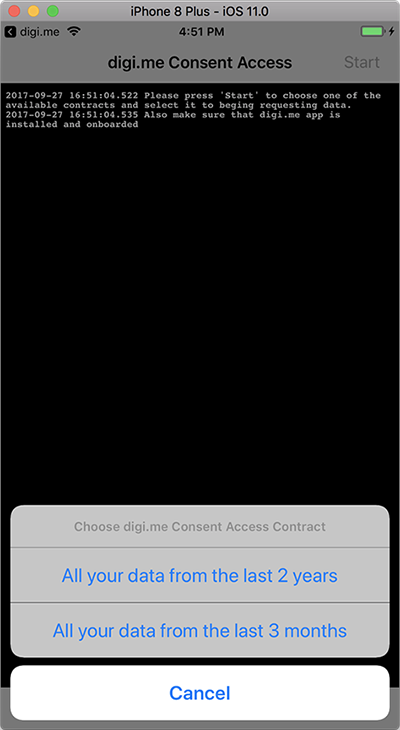
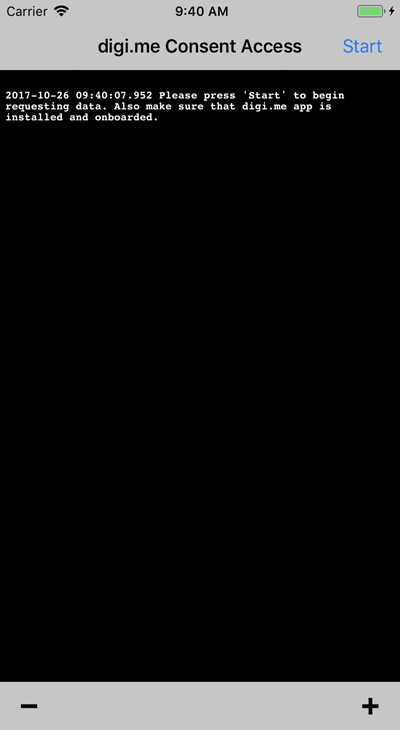
a few changes to reflect support for only one contract in the app

diff --git a/Example/DigiMeFramework/ViewController.swift b/Example/DigiMeFramework/ViewController.swift
@@ -29,8 +29,7 @@ class ViewController: UIViewController {
         self.loggerController.didMove(toParentViewController: self)
         DigiMeFramework.sharedInstance().delegate = self
         self.navigationItem.rightBarButtonItem = UIBarButtonItem(title: "Start", style: .plain, target: self, action: #selector(runTapped))
-        self.loggerController.log(toView: "Please press 'Start' to choose one of the available contracts and select it to begin requesting data.")
-        self.loggerController.log(toView: "Also make sure that digi.me app is installed and onboarded")
+        self.loggerController.log(toView: "Please press 'Start' to begin requesting data. Also make sure that digi.me app is installed and onboarded.")
         self.navigationController?.isToolbarHidden = false
         var items = [UIBarButtonItem]()
         items.append( UIBarButtonItem(title: "➖", style: .plain, target: self, action: #selector(zoomOut))) // replace add with your function

diff --git a/Example/README.md b/Example/README.md
@@ -23,15 +23,14 @@ $ pod install
 ```
 Replace `your_real_contract_id` with the real contract ids:
 ```swift
-static let kContractID1 = "YOUR_CONTRACT_ID" // a contract for two years' content
-static let kContractID2 = "YOUR_CONTRACT_ID" // a contract for three months' content
+static let kContractId = "your_real_contract_id"
 ```
-Replace the default app name `skeleton` with one of your choosing (between 5 and 16 characters):
+Replace the default app name `your_real_app_id` with one of your choosing (32 characters hex string):
 
 ```swift
-static let kAppID = "YOUR_UNIQUE_APPLICATION_NAME"
+static let kAppId = "your_real_app_id"
 ```
-Replace the default `skeleton` with your chosen app name in the application Info.plist file:
+Replace the default `your_real_app_id` with your chosen app name in the application Info.plist file:
 
 ```bash
 /.../digime-ios-sdk/Example/DigiMeFramework/Info.plist
@@ -48,23 +47,22 @@ Info.plist part to be amended:
 <string>Consent Access</string>
 <key>CFBundleURLSchemes</key>
 <array>
-<string>digime-ca-YOUR_UNIQUE_APPLICATION_NAME</string>
+<string>digime-ca-your_real_app_id</string>
 </array>
 </dict>
 </array>
 ```
-[Ask digi.me support](http://devsupport.digi.me/) for the sample private keys in p12 format and replace the existing dummy files in the project:
+[Ask digi.me support](http://devsupport.digi.me/) for the sample private key in p12 format and add it to the the project.
+check if p12 file is available under 'Targets' > 'Build Phases' > 'Copy Bundle Resources'
 
 ```bash
-/.../digime-ios-sdk/Example/DigiMeFramework/CA_RSA_PRIVATE_KEY1.p12
-/.../digime-ios-sdk/Example/DigiMeFramework/CA_RSA_PRIVATE_KEY2.p12
+/.../digime-ios-sdk/Example/DigiMeFramework/CA_RSA_PRIVATE_KEY.p12
 ```
 
 Open project in XCode, build and run on your iOS device.
 (NB! Default settings allow you to build and run on XCode Simulator. To run this demo project on your ios device you may need to have a developer account registered on Apple Developer portal.)
 
-Press 'Start' button.
-Choose any contract from the list.
+Press 'Start' button to run the app.
 
 ![screen shot 1](https://raw.githubusercontent.com/digime/digime-ios-sdk/master/Example/ScreenShot1.png)
 
